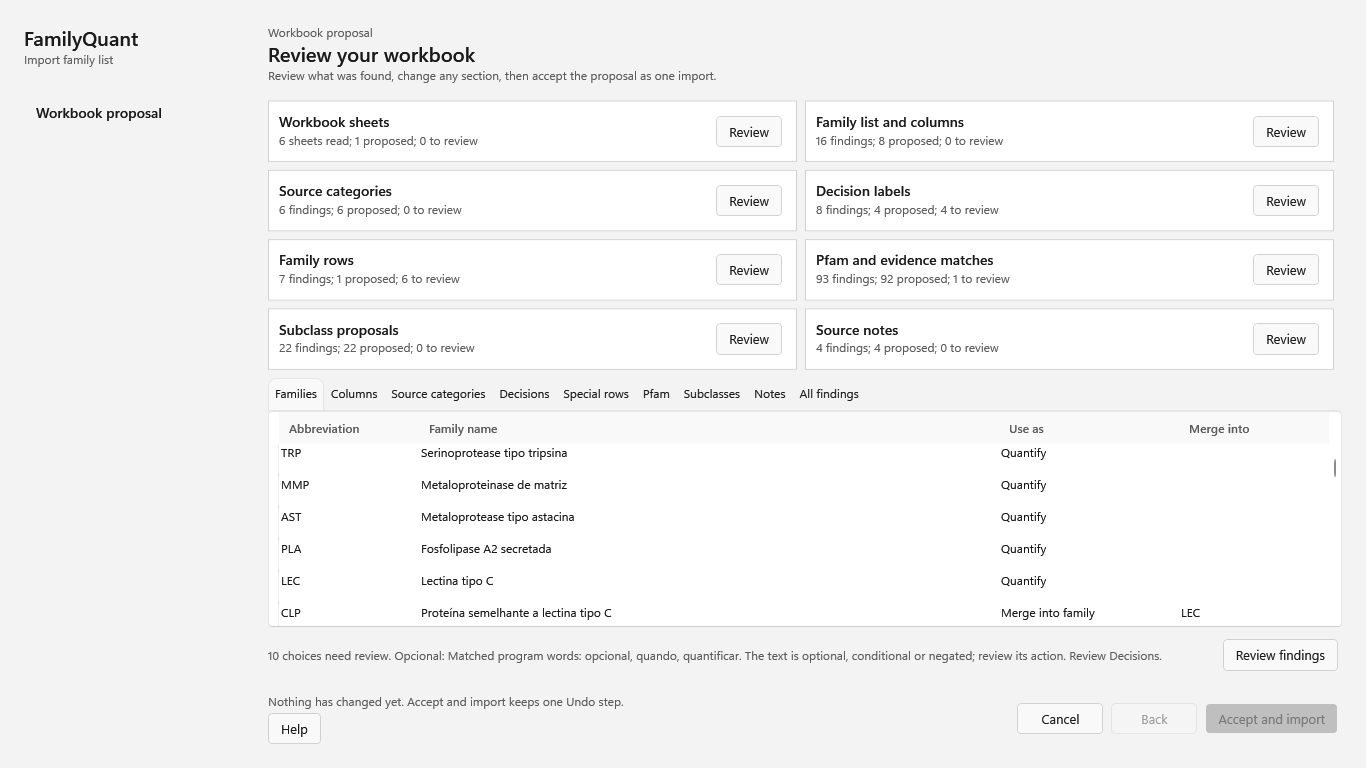
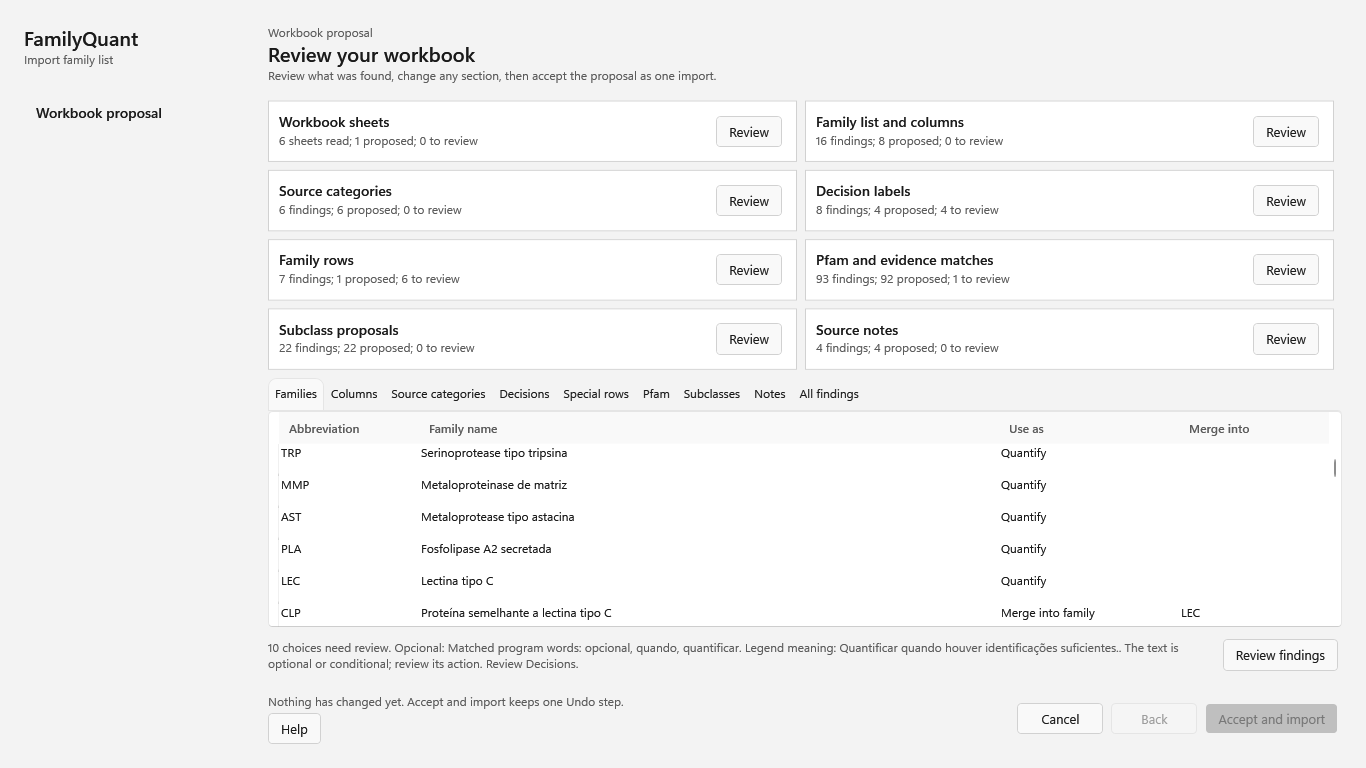
Z16a8b Retake after Z16a11 and Z16a11b: the review's first line, and the Confirmed column in words
On fq/v2111-site after merging fq/v2111-w21 e67685d1 (approved Z16a11 and Z16a11b, clean). On the example the decision proposals are unchanged after Z16a11b: Nucleo and Padrao Quantify, Excluir Not a family, Fundir com LEC Merge into LEC; Opcional, Condicional (so na fracao soluvel), Excluir (ou so varredura) and Revisar still empty, each with its own legend meaning again; Review your workbook still says 10 choices need review, so the sentences about the empty labels and the count stay as they are (the capture asserts both). 02-workbook retaken: its first review line now names the legend meaning. 03-columns-decisions came out byte-identical. Reviewing decisions now says what the Confirmed column shows (Yes only for a confirmed line; a changed action goes back to No), as the read-only Yes/No column of Z16a9 does, instead of a tick.

Capture: two settle rounds before each picture; one round once left Colour categories a few pixels short. Three runs in a row are byte-identical. Release 0 warnings; --import-guide-screens 16/0/0 light and dark, --test-import-guide 32/0/0, --test-import-help-routes 6/0/0.

Changed region(s): [[0.1845, 0.8438, 0.8609, 0.875]]

diff --git a/FamilyQuant/FamilyListImportGuide.cs b/FamilyQuant/FamilyListImportGuide.cs
@@ -77,7 +77,7 @@ public static class FamilyListImportGuide
             "When the workbook's legend explains the labels, as the example's does, Meaning from legend shows each label's meaning (point at it to read it in full), and the proposed action starts from that meaning: in the example, Núcleo and Padrão are proposed as Quantify, Excluir as Not a family, and Fundir com LEC as Merge into family with LEC, the abbreviation it names. A meaning that is optional, conditional or still pending proposes nothing, so the action is left empty for you to choose: in the example, Opcional, Condicional (só na fração solúvel), Excluir (ou só varredura) and Revisar. The meaning only helps you decide; each line is still your choice, and none is confirmed for you.",
             "There is no conditional action. A condition written in the sheet, like Condicional (só na fração solúvel) in the example, is never turned into a rule; choose the action that fits now. The value written in your sheet stays with each family as its source label.",
             "A cell that already holds one of the program's own labels, Quantify, Report under others or Not a family, or Merge into followed by an abbreviation of your list, is confirmed at once. When every value is like that, there is nothing to review.",
-            "Check each other line, change what is wrong, and press Confirm these actions. Next stays disabled until every value is confirmed, and changing an action or its abbreviation clears that line's Confirmed tick, so no proposal is accepted for you. Back to columns returns without confirming, and Review decision values opens the list again.",
+            "Check each other line, change what is wrong, and press Confirm these actions. The Confirmed column says Yes only for a confirmed line; Next stays disabled until every value is confirmed, and changing an action or its abbreviation sets that line back to No, so no proposal is accepted for you. Back to columns returns without confirming, and Review decision values opens the list again.",
         }),
         new FamilyListImportGuideSection("special", "4. Special rows", "04-special-rows.png", "A cell naming four families, with its choice of how to import it.", new[]
         {

diff --git a/FamilyQuant.Tests/Program.ImportGuideScreens.cs b/FamilyQuant.Tests/Program.ImportGuideScreens.cs
@@ -77,7 +77,8 @@ internal static partial class Program
         void Shot(string name)
         {
             // Let opening sections (the colour categories) finish their layout before the picture.
-            PumpDispatcher(); System.Threading.Thread.Sleep(400); PumpDispatcher();
+            // Z16a8b: two settle rounds; one round once left Colour categories a few pixels short of its final place.
+            PumpDispatcher(); System.Threading.Thread.Sleep(400); PumpDispatcher(); System.Threading.Thread.Sleep(400); PumpDispatcher();
             var content = (FrameworkElement)window.Content; content.Measure(new Size(1366, 768)); content.Arrange(new Rect(0, 0, 1366, 768)); content.UpdateLayout();
             PumpDispatcher();
             Directory.CreateDirectory(output);
